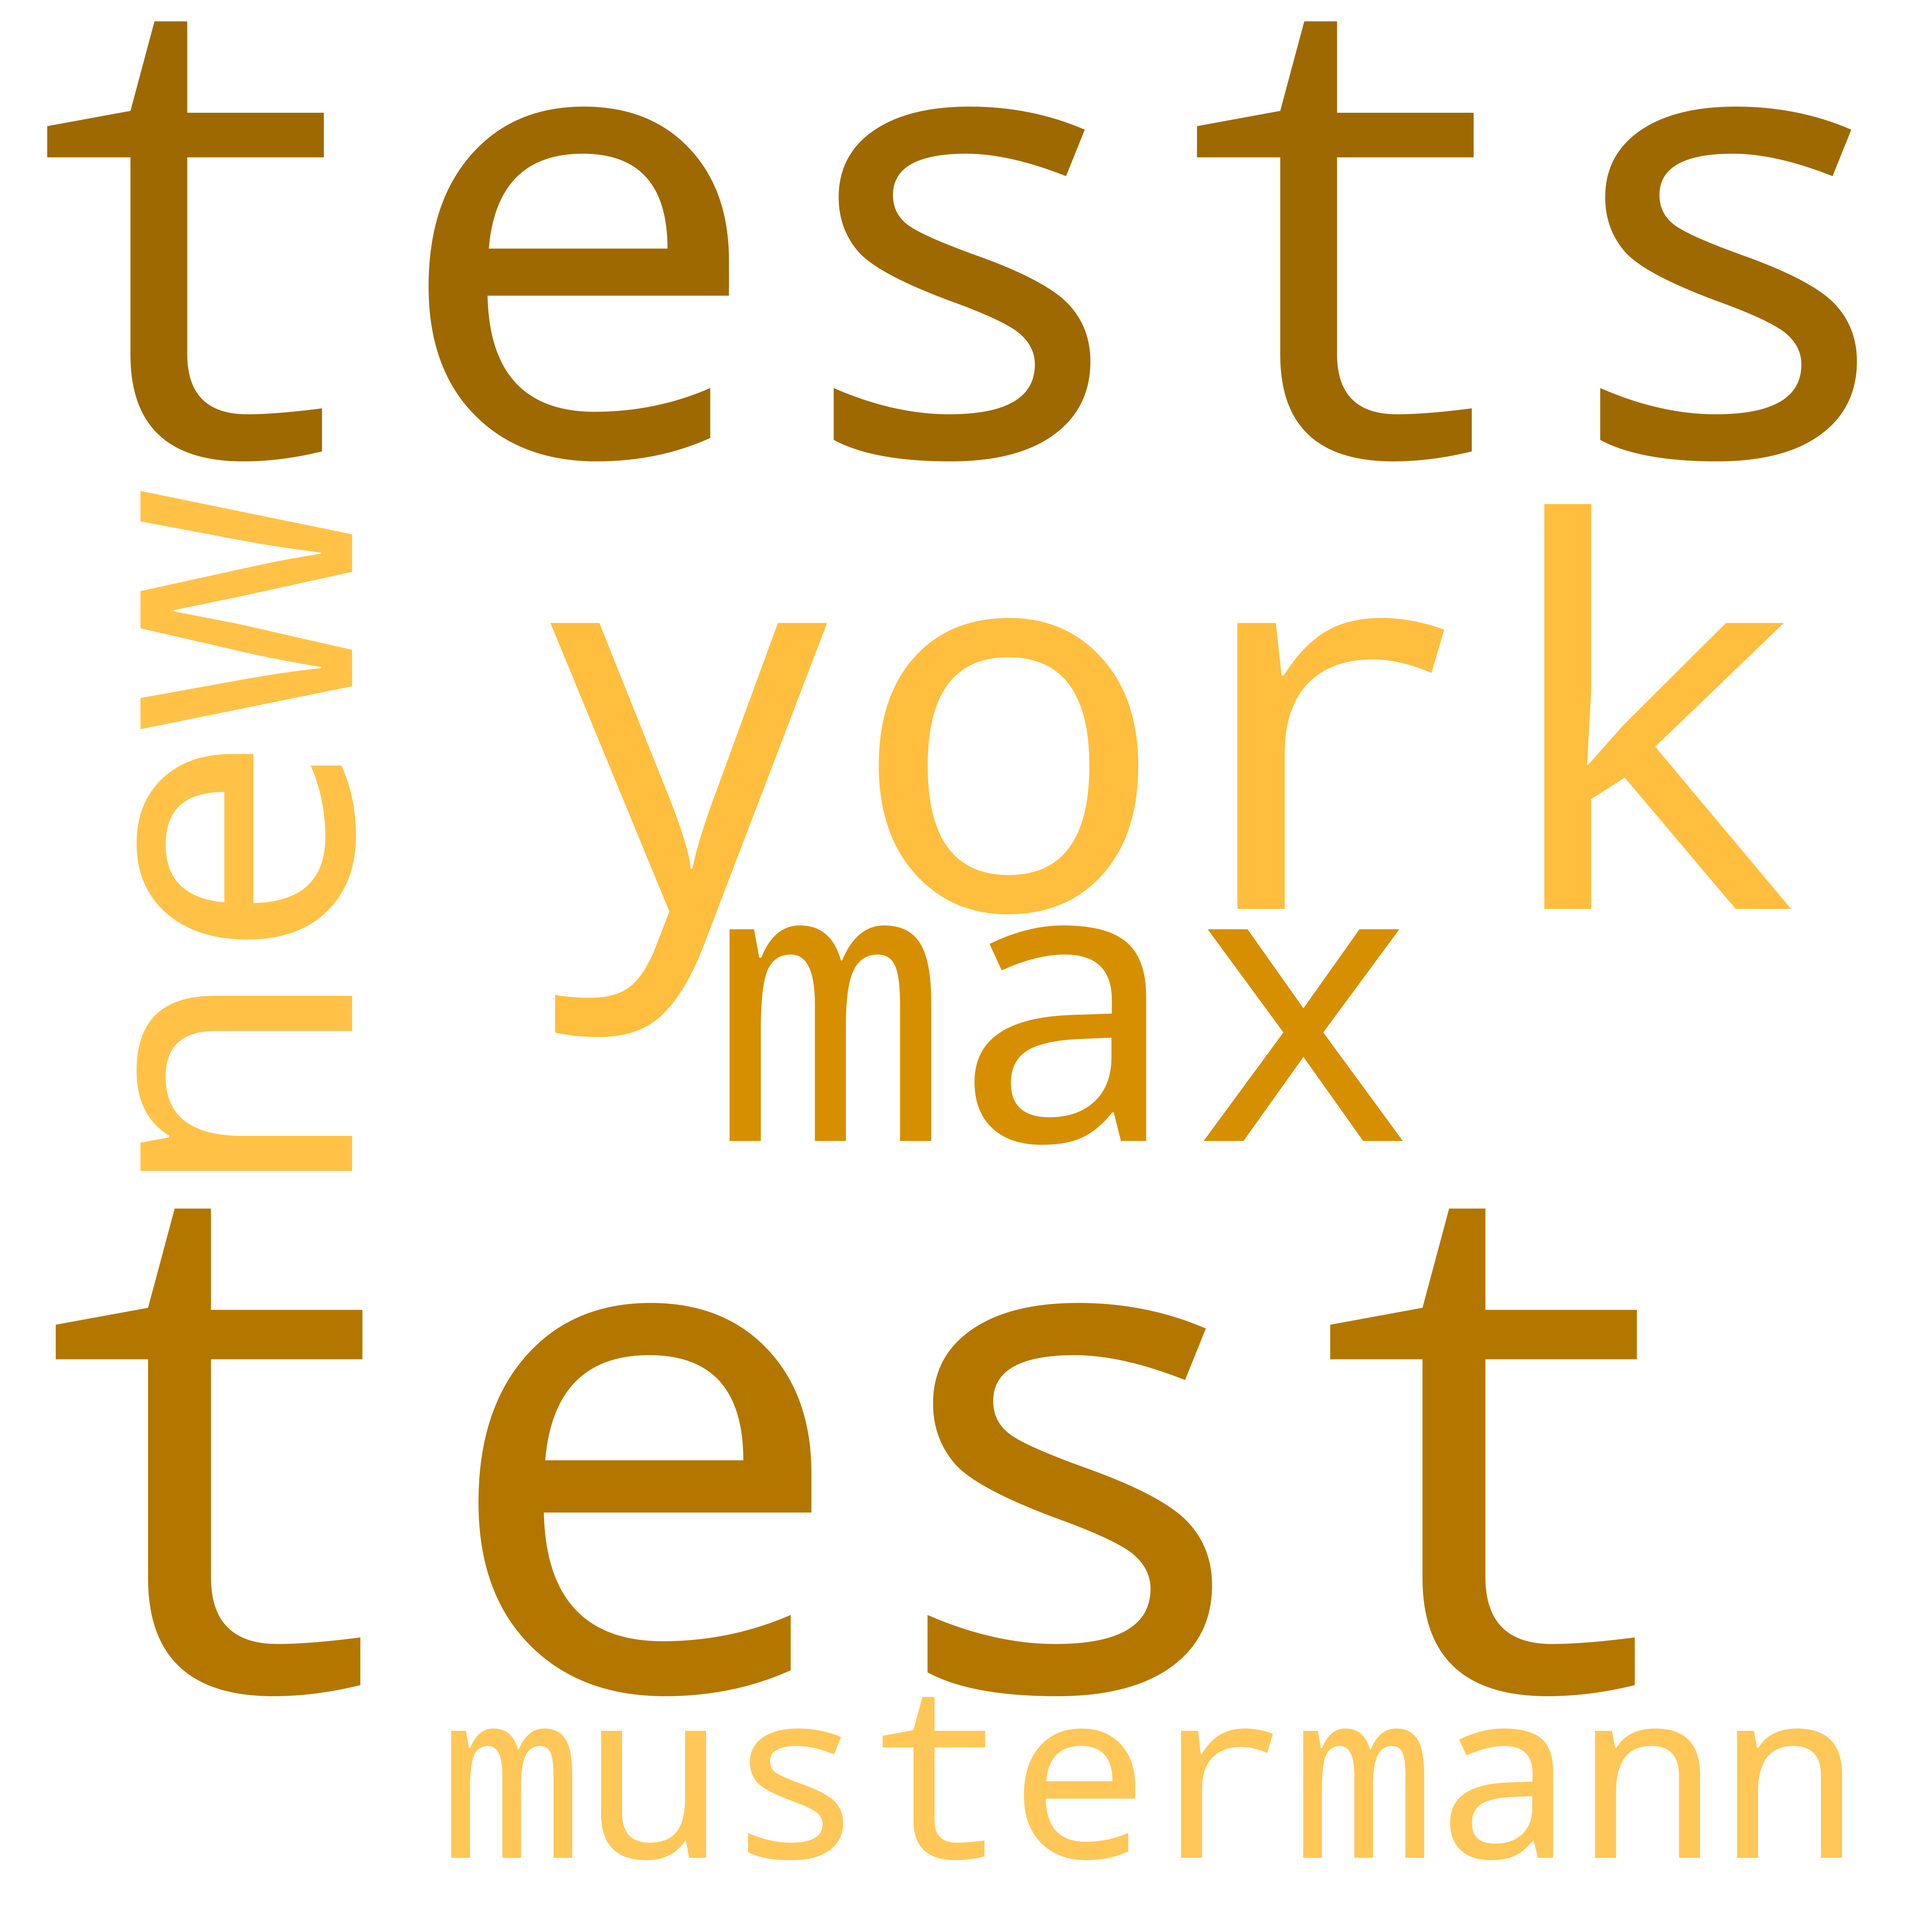
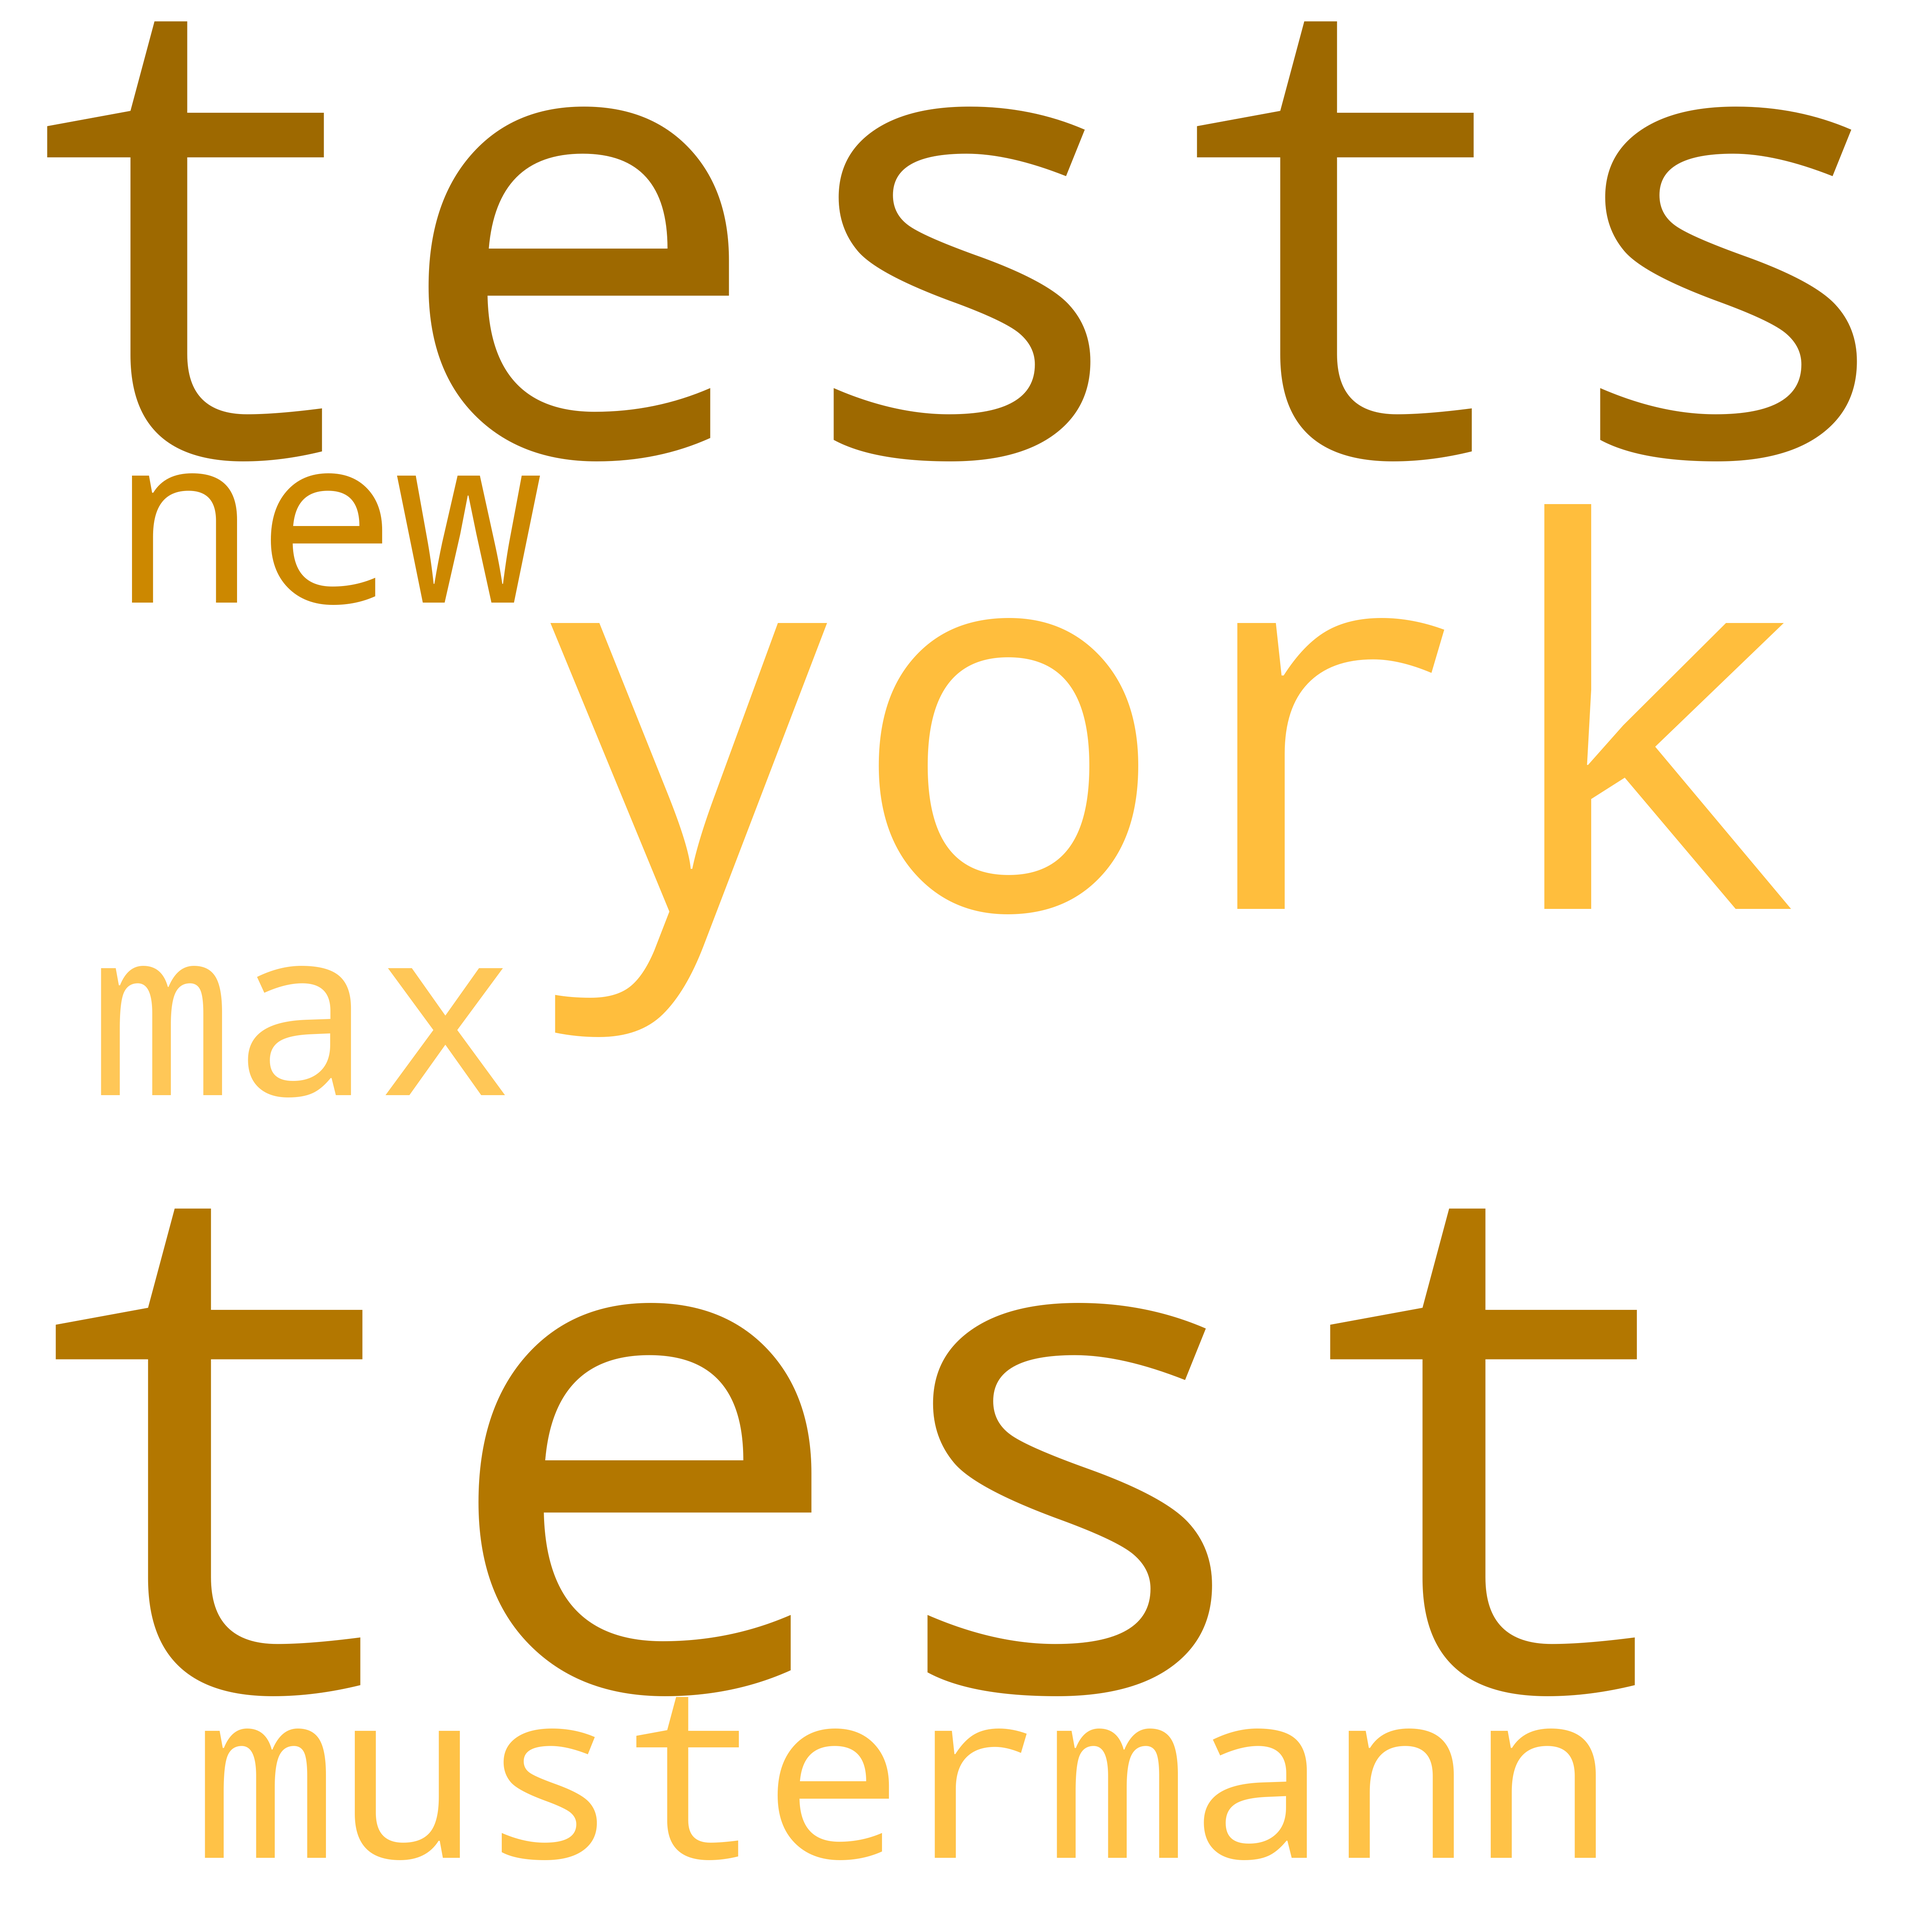
fixed bug with overlaping words in plot

diff --git a/src/build_plot.py b/src/build_plot.py
@@ -17,12 +17,16 @@ def create_plot(trend_name, topic_words, current_dir):
 
     if not os.path.exists(path):
         print("building plot: " + name)
-        
+
         plt.figure()
-        plt.bar(range(len(topic_words)), list(
-            topic_words.values()), align='center')
+        fig, ax = plt.subplots()
+        ax.bar(range(len(topic_words)), list(topic_words.values()), align="center")
+        ax.xaxis.label.set_color('white')
+        ax.tick_params(colors='white')
         plt.xticks(range(len(topic_words)), list(topic_words.keys()))
-        plt.savefig(path, transparent=True, color="white")
+        plt.setp(ax.get_xticklabels(), rotation=30, horizontalalignment='right')
+        fig.subplots_adjust(bottom=0.2)
+        plt.savefig(path, transparent=True)
         plt.clf()
 
         print("Image successfully writen to storage/results/" + name)

diff --git a/src/build_topic_modeling.py b/src/build_topic_modeling.py
@@ -99,7 +99,7 @@ if __name__ == '__main__':
     current_dir = os.path.dirname(os.path.abspath(__file__))
     trends = [trend for trend in os.listdir(current_dir + '/../storage/jsons')]
 
-    for trend in trends[26:27]: # select TEST.json for testing
+    for trend in trends[26:28]: # select TEST.json for testing
         data = clean_tweets(trend)
         list_data = convert_dict_to_list(data)
         corpus_data, id2word_data = preparing_data_for_LDA(list_data)

diff --git a/src/pipeline.py b/src/pipeline.py
@@ -126,7 +126,7 @@ def clean_tweets(trend_from_storage):
     vectorizer = CountVectorizer(analyzer="word", lowercase=True, stop_words=german_stop_words)
     X = vectorizer.fit_transform(tweets).toarray()
 
-    tweets = build_bigrams(tweets)
+    # tweets = build_bigrams(tweets)
 
     lemmatized_dict = {}
     sorted_list = dict(vectorizer.vocabulary_.items())
